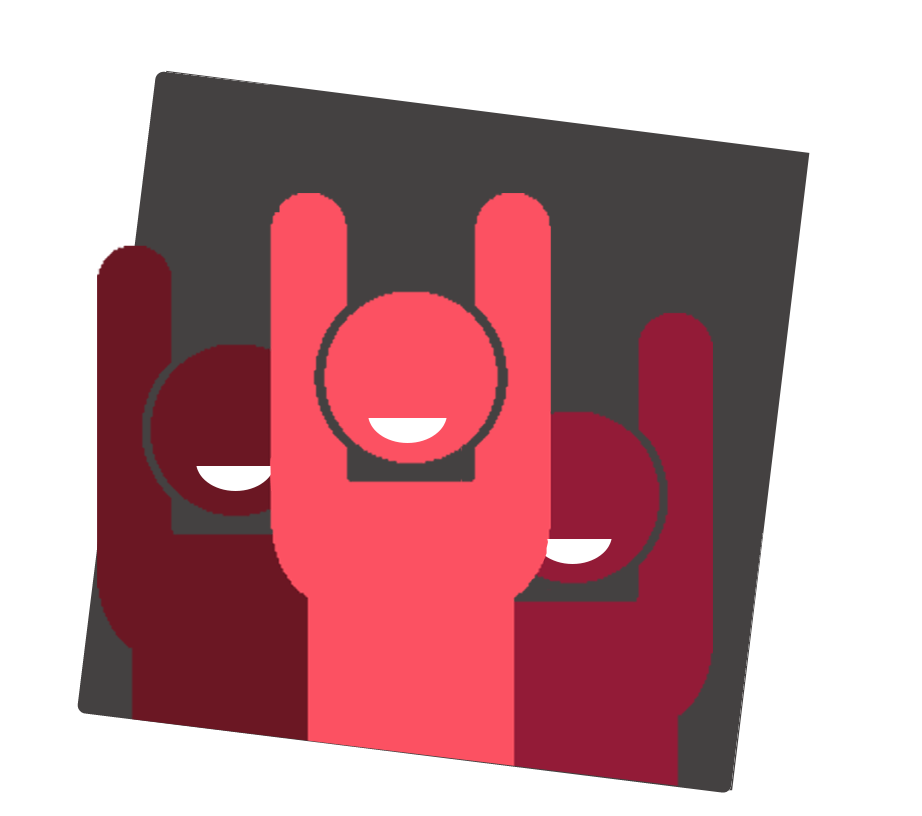
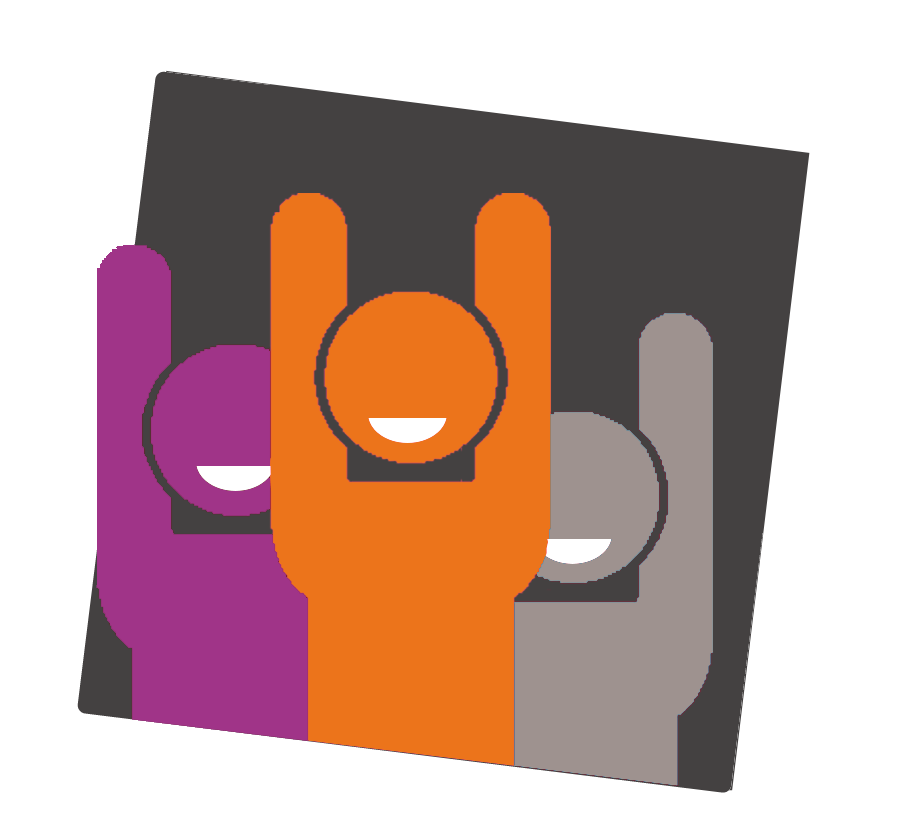
mobile homepages

diff --git a/web/css/mobile20190228-1735.css b/web/css/mobile20190228-1735.css
@@ -1,5 +1,10 @@
 @media (max-width:600px){
 	
+	.btn-block-mobile{
+		display: block;
+    	width: 100%;
+	}
+
 	#login_form input[type=text],
 	#login_form input[type=password] {
 	    line-height: 30px;
@@ -87,6 +92,22 @@
 		background: #FC5162;
 	}
 
+	#titre-mobile-wrapper.compta{
+		background: #F2835C;
+	}
+
+	#titre-mobile-wrapper.emailing{
+		background: #fb7155;
+	}
+
+	#titre-mobile-wrapper.ndf{
+		background: #fbb433;
+	}
+
+	#titre-mobile-wrapper.social{
+		background: #ec741b;
+	}
+
 	#mobile-bottom-menu{
 		background: #444141;
 		width: 100%;
@@ -118,6 +139,7 @@
 	#mobile-bottom-menu ul.dropdown-menu li{
 		padding: 10px 0 10px 0;
     	border-bottom: 1px solid #eee;
+    	z-index: 9999999;
 	}
 
 	#mobile-bottom-menu ul.dropdown-menu li a{

diff --git a/web/css/base20190228-1735.css b/web/css/base20190228-1735.css
@@ -371,11 +371,6 @@ tr th {
     color: #b0dbe9;
 }
 
-#userbar #user-icon{
-    min-height: 60px;
-    background-color: #fff;
-}
-
 #userbar #dLabel img {
     border-radius: 40px;
     border: solid #444141 0px;
@@ -637,7 +632,7 @@ label input[type="checkbox"][disabled] {
 }
 
 .titre-social {
-    background: #FC5162;
+    background: #ec741b;
 }
 
 .titre-social:before {
